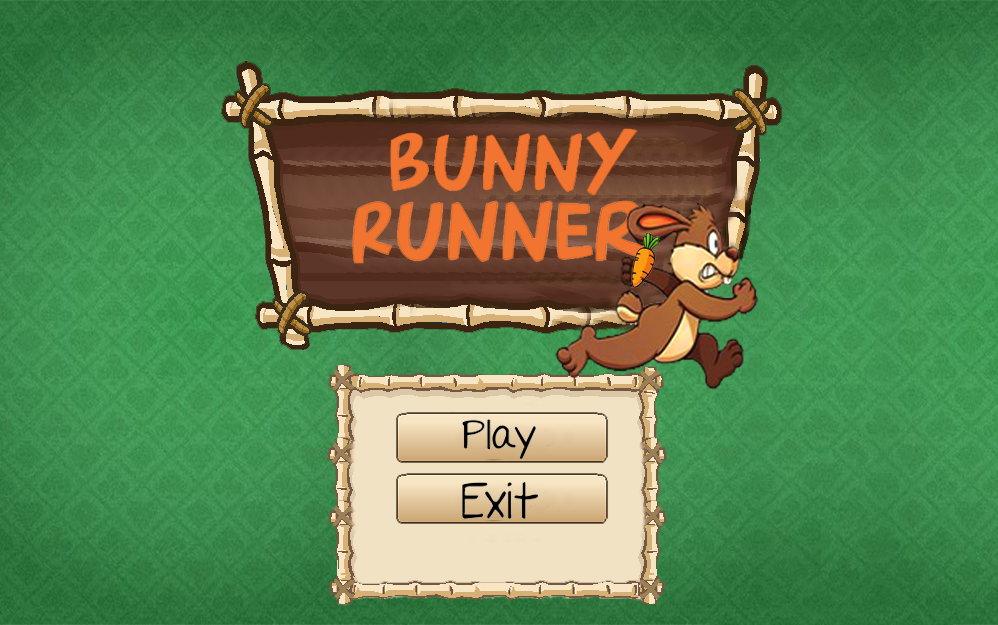
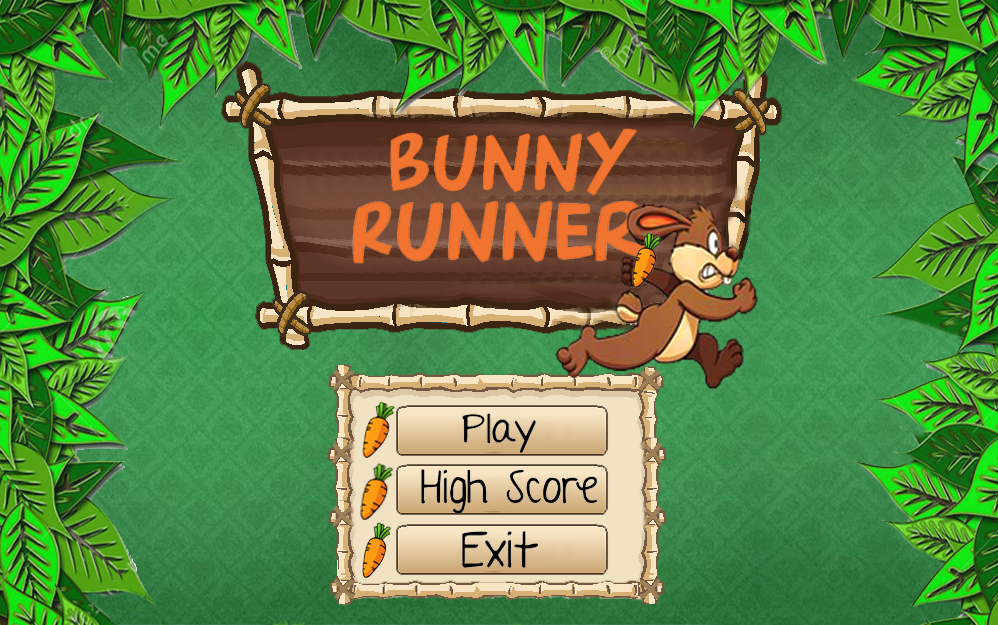
High Score Menu Image. Changes on Main Menu

diff --git a/core/src/com/mygdx/game/GUI/MainMenu.java b/core/src/com/mygdx/game/GUI/MainMenu.java
@@ -26,6 +26,7 @@ public class MainMenu implements Screen {
     private Texture button;
     private Image playButton;
     private Image exitButton;
+    private Image highScoreButton;
     private Stage stage;
     private BunnyGame game;
 
@@ -39,17 +40,13 @@ public class MainMenu implements Screen {
         gamePort.apply();
         stage = new Stage(gamePort, game.batch);
 
-        background = new Texture("MainMenu2.png");
+        background = new Texture("MainMenu.png");
         button = new Texture("button.png");
 
         float xPlayButton=Gdx.graphics.getWidth()*40/100;
-        Gdx.app.log("Background", " x :"+Gdx.graphics.getHeight()*19/100);
-        float yPlayButton=Gdx.graphics.getHeight()*26/100;
-        Gdx.app.log("Background", " y :"+Gdx.graphics.getHeight()*19/100);
+        float yPlayButton=Gdx.graphics.getHeight()*28/100;
         float wPlayButton = Gdx.graphics.getWidth()*20/100;
-        Gdx.app.log("Background", " comprimento :"+Gdx.graphics.getWidth()*32/100);
         float hPlayButton = Gdx.graphics.getHeight()*7/100;
-        Gdx.app.log("Background", " altura :"+Gdx.graphics.getHeight()*12/100);
 
 
         playButton = new Image(button);
@@ -57,14 +54,15 @@ public class MainMenu implements Screen {
         playButton.setHeight(hPlayButton);
         playButton.setPosition(xPlayButton,yPlayButton);
 
-         xPlayButton=Gdx.graphics.getWidth()*40/100;
-        Gdx.app.log("Background", " x :"+Gdx.graphics.getHeight()*19/100);
-         yPlayButton=Gdx.graphics.getHeight()*16/100;
-        Gdx.app.log("Background", " y :"+Gdx.graphics.getHeight()*19/100);
-         wPlayButton = Gdx.graphics.getWidth()*20/100;
-        Gdx.app.log("Background", " comprimento :"+Gdx.graphics.getWidth()*32/100);
-         hPlayButton = Gdx.graphics.getHeight()*7/100;
-        Gdx.app.log("Background", " altura :"+Gdx.graphics.getHeight()*12/100);
+        yPlayButton=Gdx.graphics.getHeight()*19/100;
+
+
+        highScoreButton = new Image(button);
+        highScoreButton.setWidth(wPlayButton);
+        highScoreButton.setHeight(hPlayButton);
+        highScoreButton.setPosition(xPlayButton,yPlayButton);
+
+        yPlayButton=Gdx.graphics.getHeight()*9/100;
 
 
         exitButton = new Image(button);
@@ -72,9 +70,11 @@ public class MainMenu implements Screen {
         exitButton.setHeight(hPlayButton);
         exitButton.setPosition(xPlayButton,yPlayButton);
 
+
         Gdx.input.setInputProcessor(stage);
         stage.addActor(playButton);
         stage.addActor(exitButton);
+        stage.addActor(highScoreButton);
 
         playButton.addListener(new ClickListener(){
            @Override
